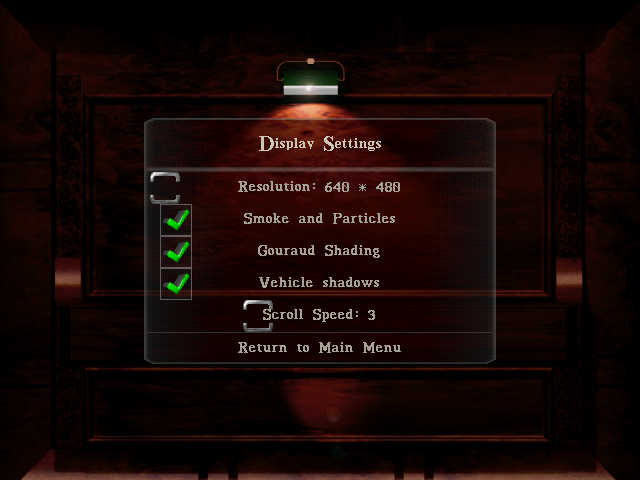
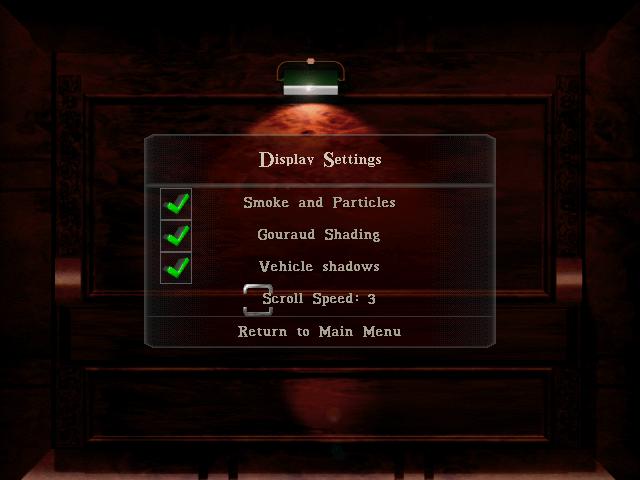
scaled background images readme

diff --git a/README.md b/README.md
@@ -101,6 +101,20 @@ Discord server : https://discord.gg/bwG6Z3RK8b
 
 Some quality of life changes have been made to the game, from incorrect text entries to the removal of unnecessary buttons.
 
+Rescaled menu sprites for all supported resolutions which are swapped around when changing the resolution in the launcher.
+
+Human Background Menu
+
+<div align="center">
+  <img src="images/menu-background-human.png" alt="Critical Event Options - Edited">
+</div>
+
+Martian Background Menu
+
+<div align="center">
+  <img src="images/menu-background-martian.png" alt="Critical Event Options - Edited">
+</div>
+
 Critical Event Options - Edited
 
 This was fixed by adding two leading spaces to the TEXT.ojd file for these entries.
@@ -118,6 +132,8 @@ Critical Event Options - Unedited
 Display Settings - Edited
 
 This was fixed by patching the executable to jump past the instructions to create these buttons.
+
+The resolution slider was also removed because this is now handled by the launcher and the original functionality required restarting the game.
 
 <div align="center">
   <img src="images/menu-settings-edited.png" alt="Display Settings - Edited">
